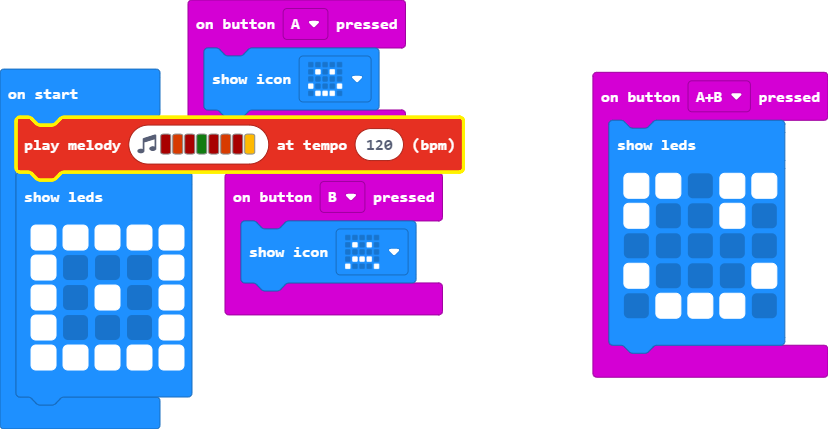
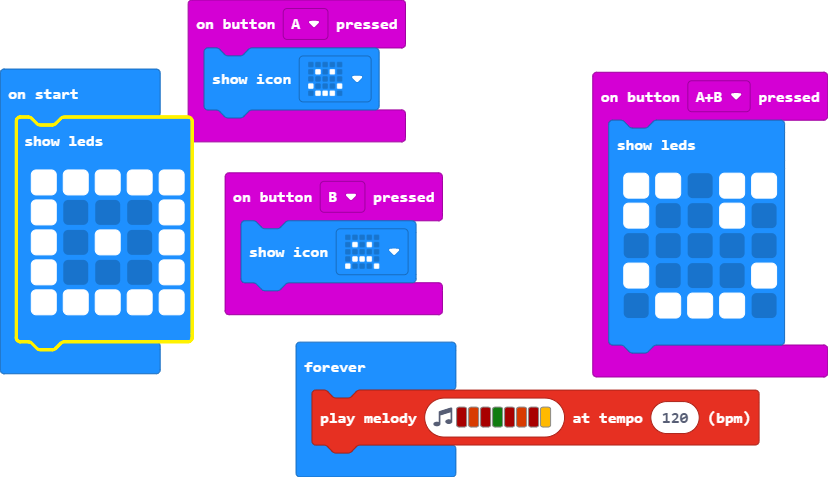
Update main.blocks, main.ts

diff --git a/main.ts b/main.ts
@@ -13,7 +13,6 @@ input.onButtonPressed(Button.AB, function () {
 input.onButtonPressed(Button.B, function () {
     basic.showIcon(IconNames.Sad)
 })
-music.playMelody("C5 B C5 G C5 B C5 A ", 120)
 basic.showLeds(`
     # # # # #
     # . . . #
@@ -21,3 +20,6 @@ basic.showLeds(`
     # . . . #
     # # # # #
     `)
+basic.forever(function () {
+    music.playMelody("C5 B C5 G C5 B C5 A ", 120)
+})
